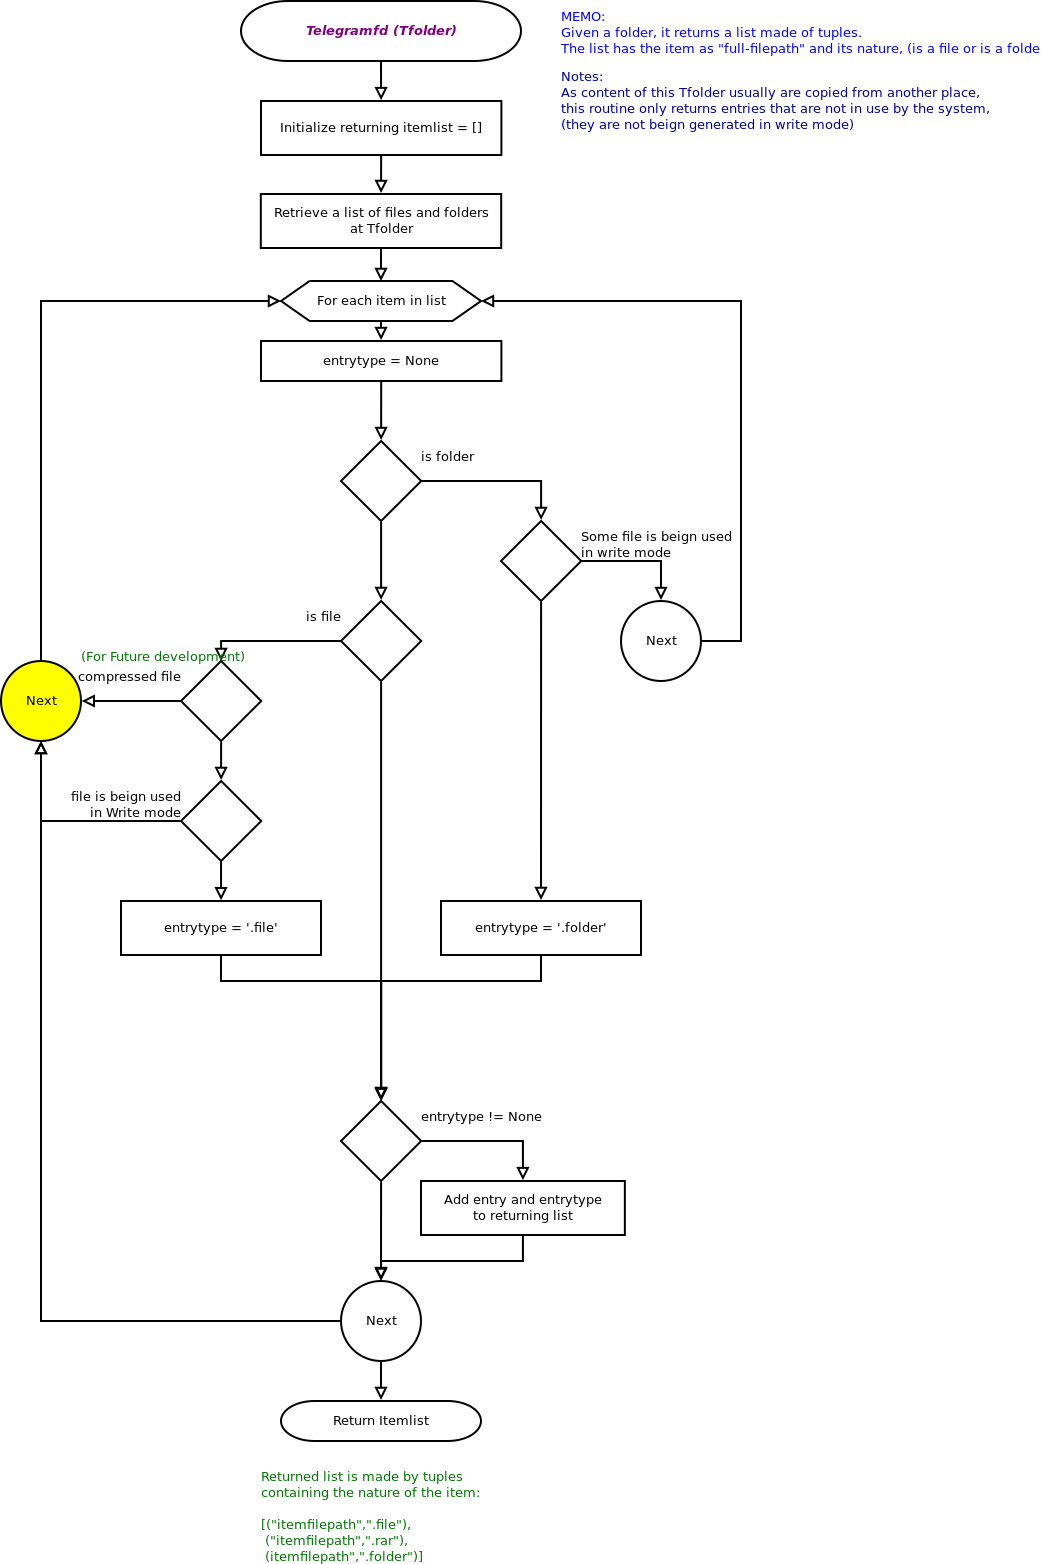
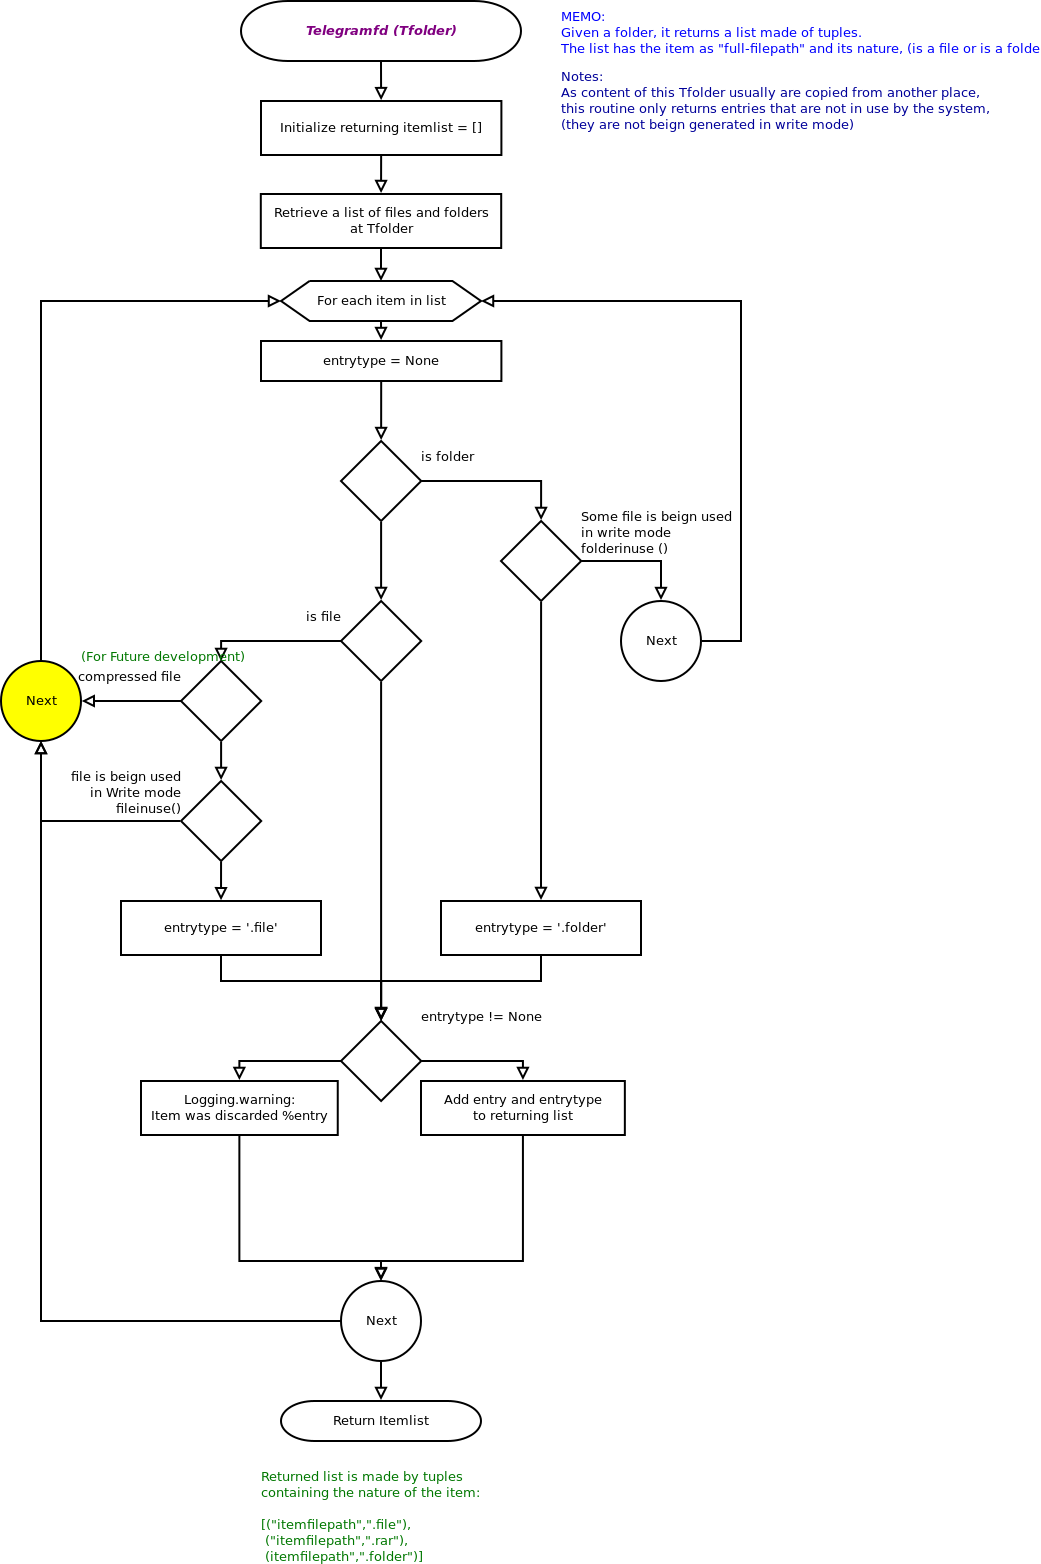
Revised code for telegram nonwanted files, revised diagrams

diff --git a/Gideon.py b/Gideon.py
@@ -32,7 +32,7 @@ import transmissionrpc  # transmission rpc API
 dyntestfolder = 'TESTS'
 
 
-__version__ = "2.0alfa"
+__version__ = "2.0"
 __author__ = "pablo33"
 
 
@@ -1221,7 +1221,7 @@ def SendtoTransmission():
 			TRhash = trobject.hashString
 			con.execute ("UPDATE tw_inputs SET status='Added',  hashstring = ? , trname=? WHERE id=?", (TRhash, TRname,str(Id)))
 			SpoolUserMessages(con, 2, TRid = Id)
-	con.commit()
+		con.commit()
 	con.close()
 	return
 
@@ -1577,11 +1577,14 @@ def Retrievefilesdict ( Fullfilepath, Filetype):
 				itemdict = {'name': name , 'size': size}
 				CollectionDictionary[regcounter] = itemdict			
 				regcounter += 1
-	else:
+	elif Filetype == '.file':
 		itempath = os.path.dirname(Fullfilepath)
 		itemdict = {'name': os.path.basename(Fullfilepath)}
 		itemdict['size'] = os.path.getsize(Fullfilepath)
 		CollectionDictionary = {regcounter : itemdict}
+
+	else:
+		logging.critical ('Unknown entry-type, cannot continue, returning an empty dictionary of files.')
 
 	return CollectionDictionary
 
@@ -1787,19 +1790,25 @@ def DeliverFiles():
 	cursor1.execute ("SELECT id, trname, fullfilepath, dwfolder, filetype from tw_inputs WHERE status = 'Completed' and deliverstatus = 'Added'")
 	for Id, Trname, Fullfilepath, Dwfolder, Filetype in cursor1:
 		cursor2 = con.cursor()
-		cursor2.execute ("SELECT nreg, originalfile, destfile from files WHERE trid = %s and wanted = 1 and status = 'Added' "%Id)
-		for Nreg, originalfile, destfile in cursor2:
-			mode = 'c'
-			if Filetype in ('.file','.folder'):
-				mode = 'm'  # It's a Telegram input and need to be moved
+		cursor2.execute ("SELECT nreg, originalfile, destfile, wanted from files WHERE trid = %s and status = 'Added' "%Id)
+		for Nreg, originalfile, destfile, Wanted in cursor2:
 			origin = addslash (Dwfolder) + originalfile
-			status = copyfile (origin, destfile, mode = mode)
-			if Filetype == '.folder':
-				CleanEmptyFolders (Fullfilepath)
+			if Wanted == 1:
+				mode = 'c'
+				if Filetype in ('.file','.folder'):
+					mode = 'm'  # It's a Telegram input and need to be moved
+				status = copyfile (origin, destfile, mode = mode)
+			elif Filetype in ('.file', '.folder'):
+				os.remove (origin)
+				status = 'Deleted'
+			else:
+				continue
 			con.execute ("UPDATE files SET status = ? WHERE nreg = ?",(status,Nreg))
 		con.execute ("UPDATE tw_inputs SET deliverstatus = 'Delivered' WHERE id = %s"%Id)
+		if Filetype == '.folder':
+			CleanEmptyFolders (Fullfilepath)
 		SpoolUserMessages(con, 7, TRid = Id)
-	con.commit()
+		con.commit()
 	con.close()
 	return
 
@@ -1989,10 +1998,9 @@ def Telegramfd (Tfolder):
 		entrytype = None
 		if os.path.isdir (entry):
 			if folderinuse (entry):
-				logging.info("Detected folder job %s was not processed because some of their content was in use." %entry)
+				logging.info("Detected incoming folder job %s, it was not processed because some of their content was in use." %entry)
 				continue
-			else:
-				entrytype = '.folder'
+			entrytype = '.folder'
 		elif os.path.isfile (entry):
 			if os.path.splitext(entry)[1].lower() in ('.rar','.zip','.7z'):
 				logging.info("Detected job %s was not processed because it is a compressed file." %entry)
@@ -2004,6 +2012,8 @@ def Telegramfd (Tfolder):
 				entrytype = '.file'
 		if entrytype != None:
 			Itemlist += [(entry,entrytype),]
+		else:
+			logging.warning ('This job was discarded: %s'%entry)
 	return Itemlist
 
 def PreProcessReadyTelegramInputs ():
@@ -2022,19 +2032,19 @@ def PreProcessReadyTelegramInputs ():
 	return
 
 def RetrieveTelegramInputfiles():
-	""" Retrieve the input files and do the Pre-deliver process, only for thelegram inputs.
+	""" Retrieve the input files and do the Pre-deliver process,
+		only for telegram inputs.
 		"""
 	con = sqlite3.connect (dbpath)
 	cursor = con.cursor()
-	cursor.execute ("SELECT id, fullfilepath, filetype, dwfolder FROM tw_inputs WHERE filesretrieved IS NULL and status = 'Added' AND trname IS NULL")
+	cursor.execute ("SELECT id, fullfilepath, filetype, dwfolder FROM tw_inputs WHERE filesretrieved IS NULL and status = 'Added' AND (filetype = '.file' OR filetype = '.folder')")
 	cursorFreeze = list()
 	for entry in cursor:
 		cursorFreeze.append(entry)
 	for DBid, Fullfilepath, Filetype, Dwfolder in cursorFreeze:
 		filesdict = Retrievefilesdict (Fullfilepath, Filetype)
 		if len(filesdict) == 0:
-			print ("Thereis no files for this entry ....")
-			continue
+			logging.warning ("Thereis no files for this entry: %s"%Fullfilepath)
 		AddFilesToDB (con, DBid, filesdict, 'Telegram')
 		cursor.execute ("UPDATE tW_inputs SET status = 'Completed' WHERE id = %s"%DBid)
 		con.commit ()
@@ -2100,11 +2110,7 @@ if __name__ == '__main__':
 			RetrieveTorrentFiles (tc)
 			RetentionPService (tc)
 
-
-		
 		MsgService ()
 
 		logging.debug("# Done!, next check at "+ str (datetime.datetime.now()+datetime.timedelta(seconds=s)))
 		time.sleep (s)
-
-

diff --git a/DefTests.py b/DefTests.py
@@ -514,7 +514,7 @@ class TestPack3 (unittest.TestCase):
 		)
 
 		for testvalue, goal in known_values:
-			MD.CleanEmptyFolders(testvalue)
+			MD.CleanEmptyFolders (testvalue)
 			result = os.path.exists (testvalue)
 			print (testvalue)
 			self.assertEqual (goal,result)
